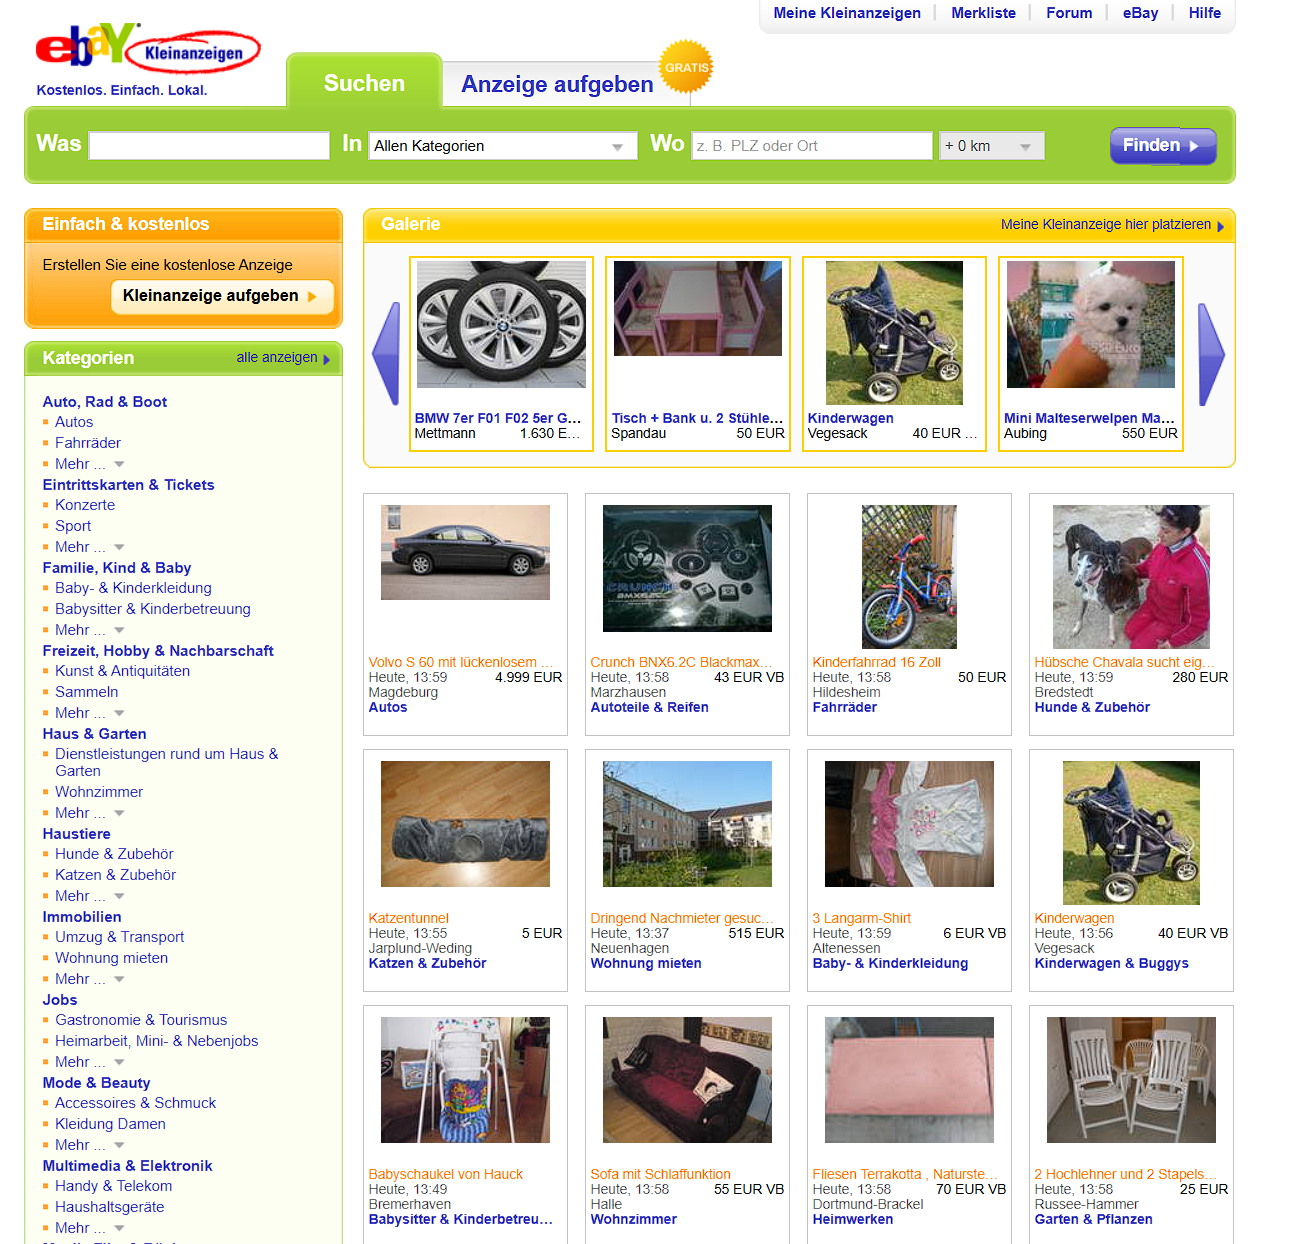
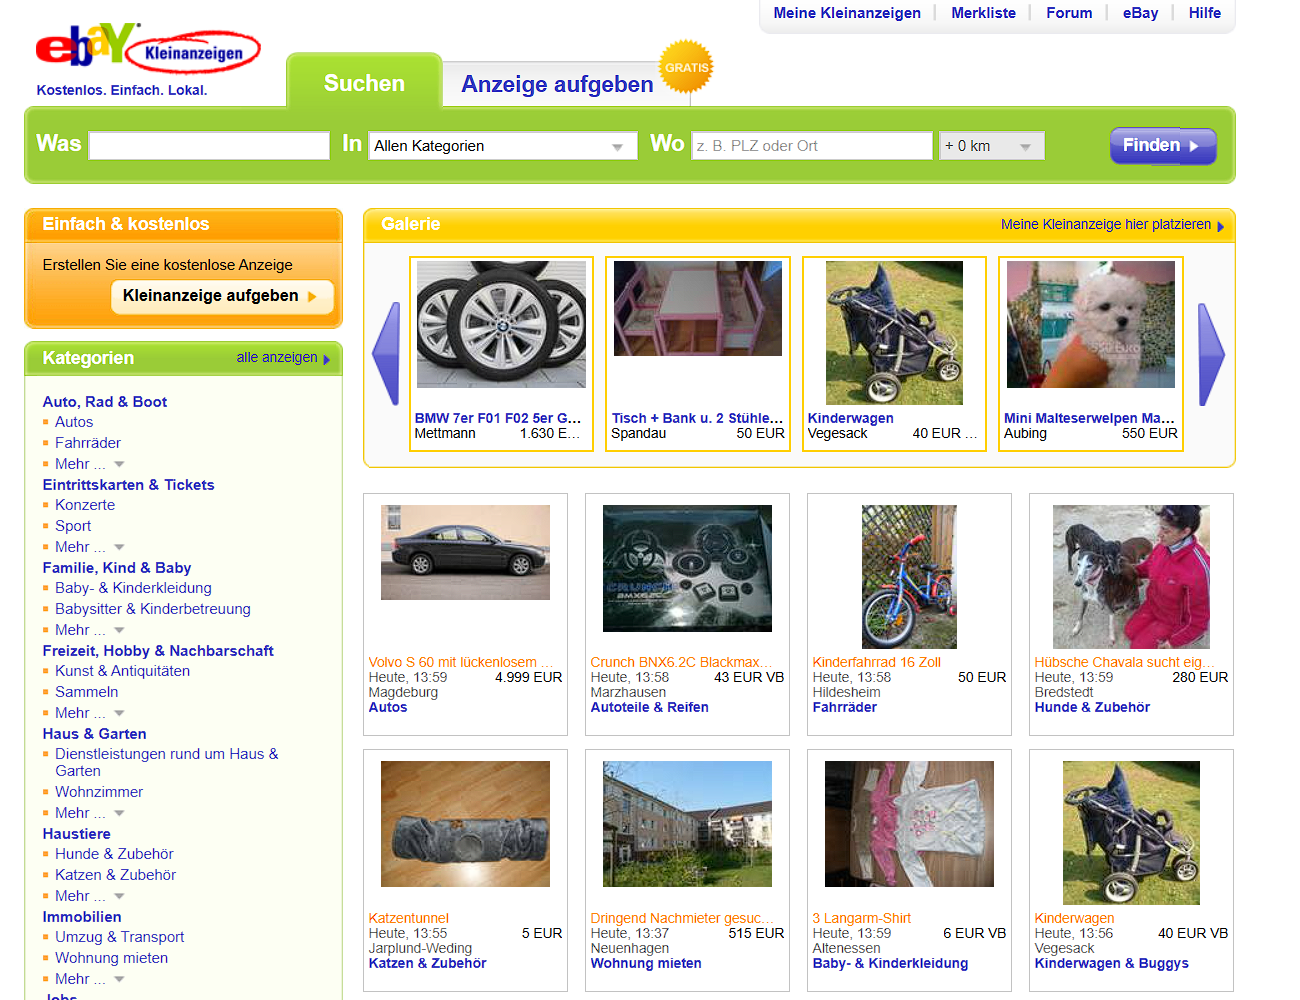
docs: ka images are now the same size, updated carousel change effect and updated layout of slides

diff --git a/components/ImageCarousel.vue b/components/ImageCarousel.vue
@@ -78,7 +78,7 @@ const rootStyle = computed(() => {
 
 <template>
   <div
-    class="flex items-start justify-start box-border overflow-hidden relative"
+    class="flex items-center justify-center box-border overflow-hidden relative"
     :style="rootStyle"
   >
     <img

diff --git a/pages/02.-who-is-ka.md b/pages/02.-who-is-ka.md
@@ -4,19 +4,16 @@ layout: two-cols
 
 # Who is Kleinanzeigen?
 
-<div class="text-base max-w-xl mx-auto space-y-3">
-  <div class="font-bold text-lg">Germany's #1 Classifieds Marketplace</div>
-  <ul class="list-disc list-inside">
-    <li>Formerly <strong>eBay Kleinanzeigen</strong> (16+ years of history).</li>
-    <li>"Adolescence" phase: Startup roots (~10 people) → Growth (~500+ employees & expanding).</li>
-    <li>Acquisitions: Adevinta (4 years ago), recent Private Equity firm.</li>
-    <li>Massive scale: <strong>Hundreds of millions of pageviews daily</strong>.<br/>(Comparable to Wallapop/Milanuncios in Spain).</li>
-    <li>The Mandate: <strong>Grow, Grow, Grow!</strong> → Value Creation Plan → Fundamental platform evolution.</li>
-  </ul>
-</div>
+### 🇩🇪 Germany's #1 Classifieds Marketplace
+
+* Formerly **eBay Kleinanzeigen** (16+ years of history).
+* "Adolescence" phase: Startup roots (~10 people) → Growth (~500+ employees & expanding).
+* Acquisitions: Adevinta (4 years ago), recent Private Equity firm.
+* Massive scale: **Hundreds of millions of pageviews daily**. (Like Wallapop/Milanuncios).
+* The Mandate: **Grow, Grow, Grow!** → Value Creation Plan → Fundamental platform evolution.
 
 <template #right>
-  <div class="pl-8">
+  <div class="flex items-center justify-center h-full">
     <ImageCarousel
       :images="[
         '/2025-04-23/ebayk-2011.png',

diff --git a/pages/05.-option-1-nextjs.md b/pages/05.-option-1-nextjs.md
@@ -1,10 +1,9 @@
 ---
-layout: two-cols
+layout: default
+class: nextjs-corner-logo
 ---
 
 # Option 1: Next.js
-
-<div class="prose">
 
 **The Familiar Choice**
 
@@ -19,10 +18,19 @@ layout: two-cols
     * RSCs: Seemed complex *at the time*, not a direct fix for our "send less JS" goal.
     * Felt like a generalist framework, not optimized for our content-heavy, SEO-critical, mostly static needs.
 
-</div>
+<img src="/2025-04-23/nextjs-logo.png" class="nextjs-logo" alt="Next.js Logo"/>
 
-::right::
-
-<img src="/2025-04-23/nextjs-logo.png" class="h-60" alt="Next.js Logo"/>
-
-</rewritten_file> 
+<style scoped>
+.nextjs-corner-logo {
+  position: relative;
+  min-height: 100%;
+}
+.nextjs-logo {
+  position: absolute;
+  top: 2rem;
+  right: 2rem;
+  height: 250px;
+  opacity: 0.9;
+  z-index: 10;
+}
+</style>

diff --git a/pages/04.-the-search-for-a-modern-solution.md b/pages/04.-the-search-for-a-modern-solution.md
@@ -3,7 +3,11 @@ layout: default
 ---
 # The Search for a Modern Solution 🚀
 
-* **Goal:** Evolve the *entire* platform, especially core pages, with modern tools.
+* **Goals:** 
+  * Evolve the *entire* platform, especially core pages, with modern tools.
+  * Improve Time to Market.
+  * Keep SEO (or even better, improve it).
+  * Prioritise HTML over JS.
 * **Key Requirements:**
     * Leverage existing team skills: **React/Preact & TypeScript**.
     * Improve Developer Experience (DX) & Performance.
